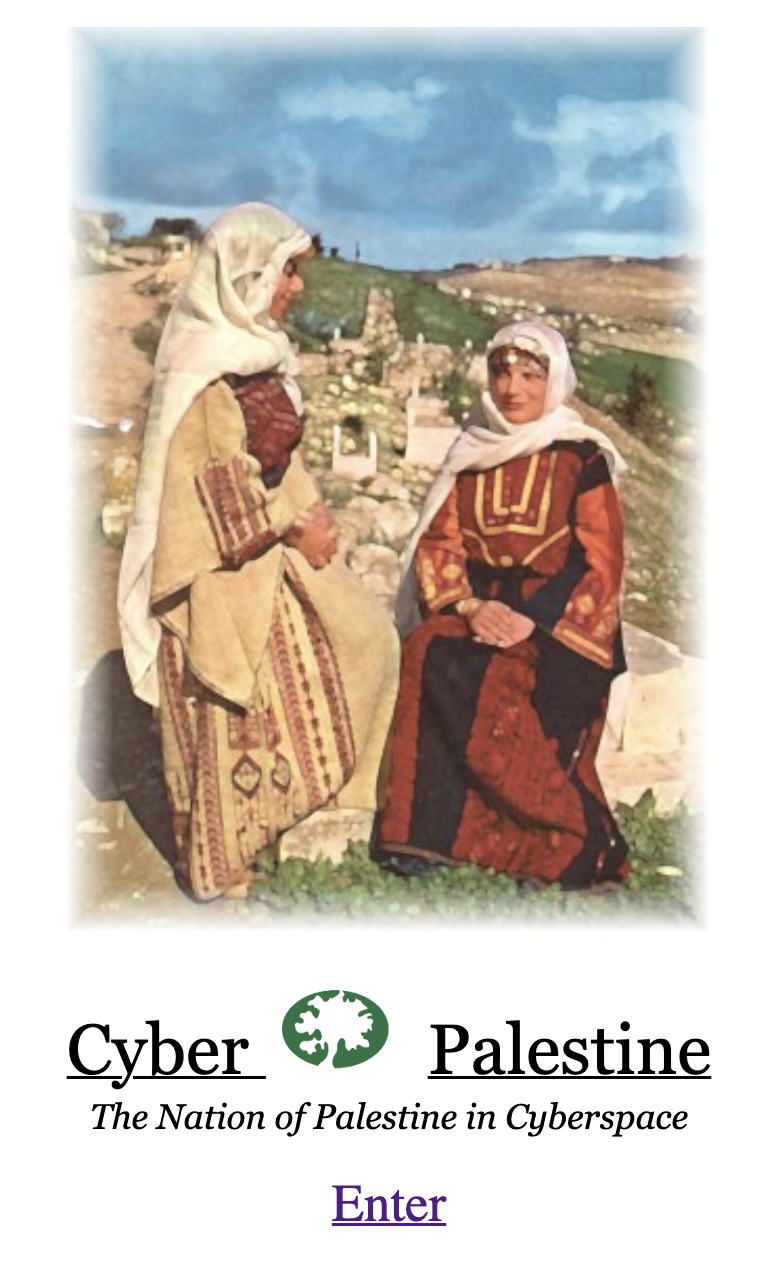
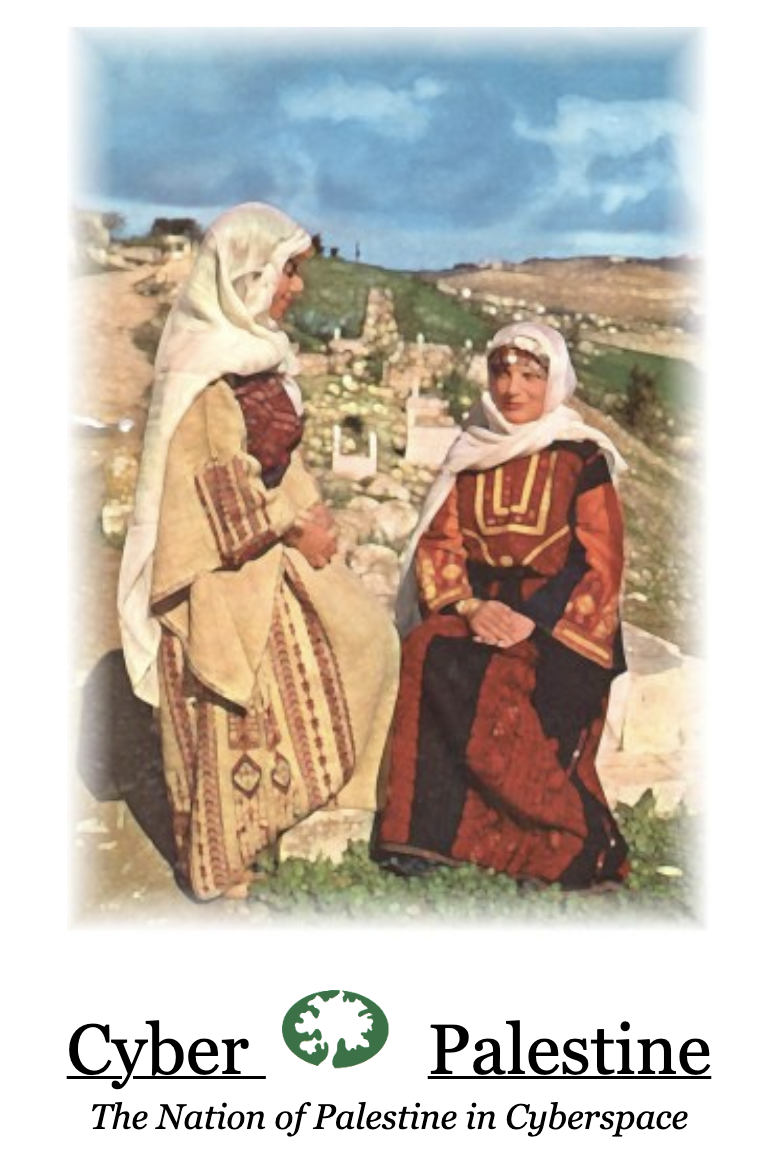
remove home button, move share button to left

diff --git a/index.html b/index.html
@@ -110,10 +110,10 @@
               <span class="tooltiptext">Go Forward</span>
             </a>
             <div class="divider">|</div>
-            <a class="tooltip">
+            <!-- <a class="tooltip">
               <input style="opacity: 1; cursor: pointer" type="image" src="public/home.svg" height="25px" onclick="" />
               <span class="tooltiptext">Go to Homepage</span>
-            </a>
+            </a> -->
             <a class="tooltip">
               <input type="image" src="public/icons/help_book_small-5.svg" height="25px" onclick="setRandomPage()" />
               <span class="tooltiptext">Go to random site</span>
@@ -121,6 +121,10 @@
             <a class="tooltip">
               <input style="opacity: 1; cursor: pointer" type="image" src="public/netmeeting-1.svg" height="25px" onclick="setFramePage(true)" />
               <span class="tooltiptext">Reset current site</span>
+            </a>
+            <a class="tooltip">
+              <input type="image" onclick="shareSite()" src="public/icons/envelope_closed-1.svg" height="25px" />
+              <span id="share-page-tooltip" class="tooltiptext tooltip-right">Share Page</span>
             </a>
             <a class="tooltip">
             </a>
@@ -139,10 +143,6 @@
             <a class="tooltip">
               <input type="image" onclick="setWallpaper()" src="public/icons/info.svg" height="25px" />
               <span class="tooltiptext tooltip-right">Information</span>
-            </a>
-            <a class="tooltip">
-              <input type="image" onclick="shareSite()" src="public/icons/envelope_closed-1.svg" height="25px" />
-              <span id="share-page-tooltip" class="tooltiptext tooltip-right">Share Page</span>
             </a>
           </section>
           <iframe id="menu" title="Menu" width="100%" src=""

diff --git a/sites/secret-project-riso/web-4.html b/sites/secret-project-riso/web-4.html
@@ -36,10 +36,9 @@
 
 <body>
     <div class="container">
-        <h1></h1>
-        <figure>
+        <figure style="margin-top: 20px;">
             <a href=""><img style="height: 80%" src="imgs/cyber-palestine.png" /></a>
-            <figcaption>"Cyber Palestine Home Page"</figcaption>
+            <figcaption>Cyber Palestine Home Page</figcaption>
         </figure>
 
         <!--frames-->
